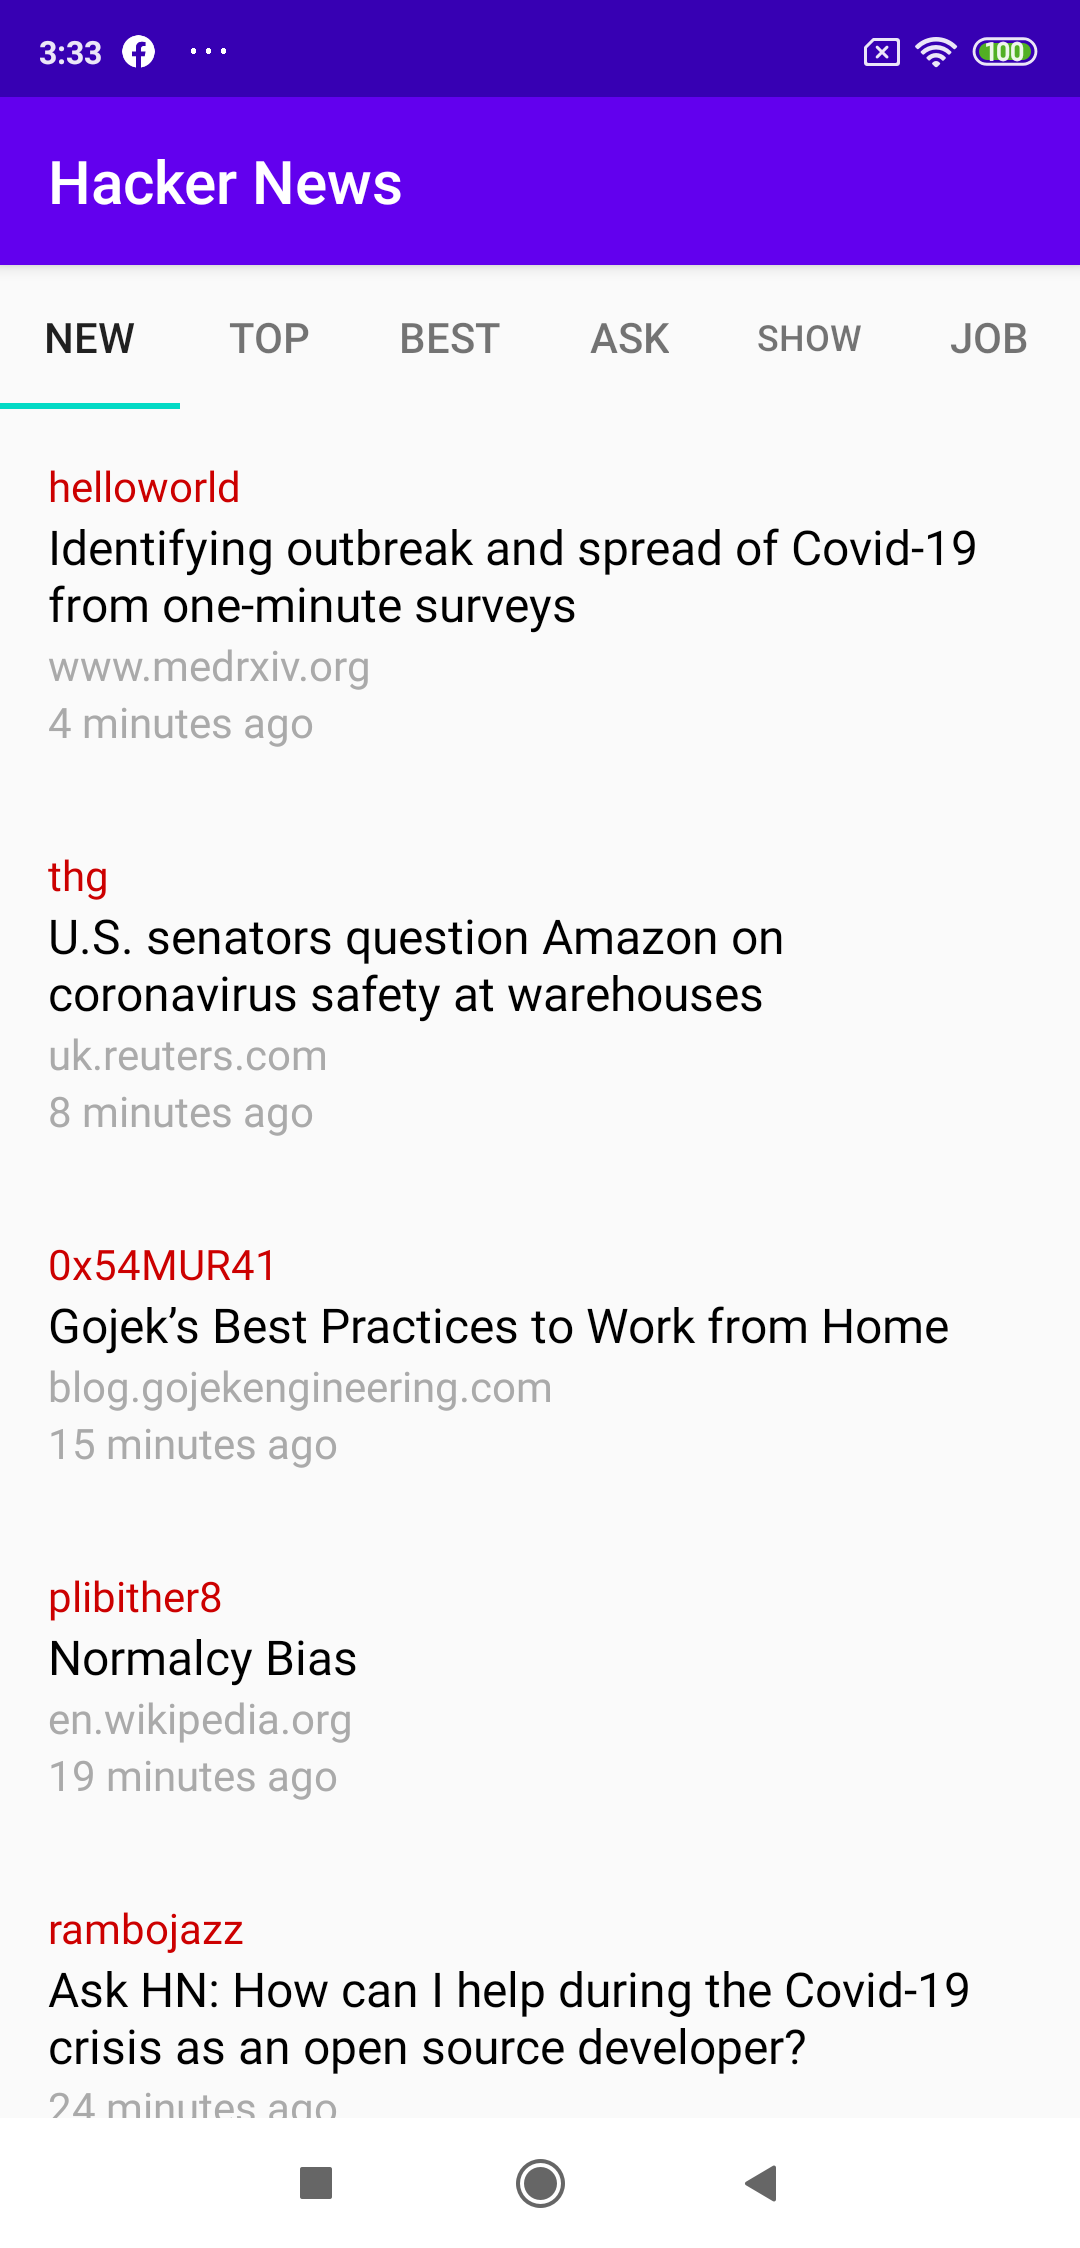
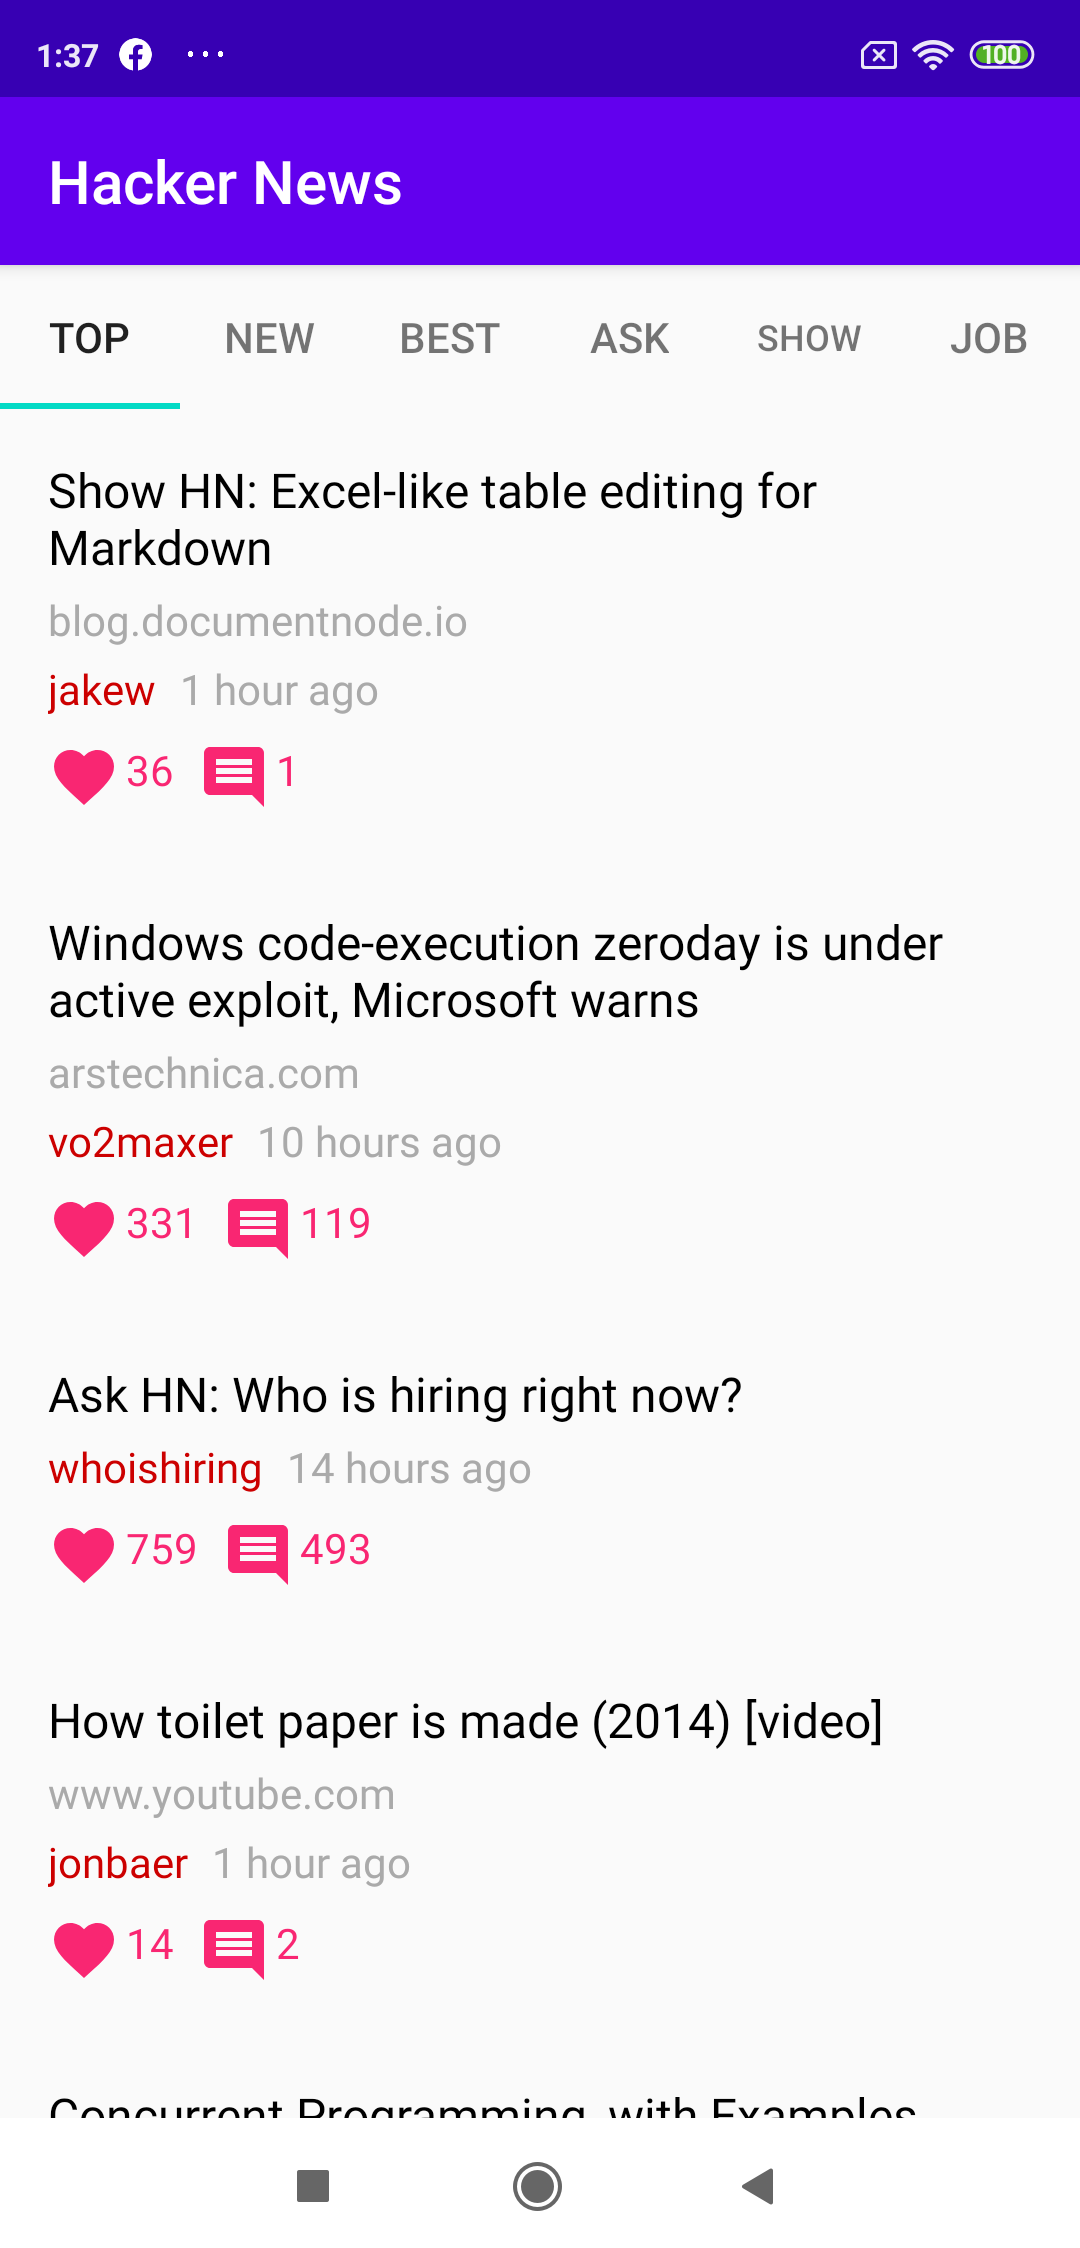
Update UI

diff --git a/presentation/src/main/java/io/github/jenthone/hackernews/ui/story/StoryFragment.kt b/presentation/src/main/java/io/github/jenthone/hackernews/ui/story/StoryFragment.kt
@@ -8,6 +8,7 @@ import android.view.ViewGroup
 import androidx.recyclerview.widget.LinearLayoutManager
 
 import io.github.jenthone.hackernews.R
+import io.github.jenthone.hackernews.data.Const
 import io.github.jenthone.hackernews.domain.entity.StoryType
 import io.github.jenthone.hackernews.domain.helper.AsyncResult
 import io.github.jenthone.hackernews.entity.Item
@@ -99,6 +100,10 @@ class StoryFragment : Fragment() {
 
             override fun onOpenItemUrl(item: Item) {
                 context?.openLink(item.url ?: return)
+            }
+
+            override fun onOpenItemCreator(item: Item) {
+                context?.openLink("${Const.BASE_WEB_URL}user?id=${item.by}")
             }
         })
 

diff --git a/presentation/src/main/java/io/github/jenthone/hackernews/ui/story/StoryAdapter.kt b/presentation/src/main/java/io/github/jenthone/hackernews/ui/story/StoryAdapter.kt
@@ -93,6 +93,18 @@ class StoryViewHolder(override val containerView: View) :
         tvUrl.setOnClickListener {
             listener.onOpenItemUrl(item)
         }
+
+        tvBy.setOnClickListener {
+            listener.onOpenItemCreator(item)
+        }
+
+        val score = item.score ?: 0
+        tvScore.text = "${score}"
+
+        val descendants = item.descendants ?: 0
+
+        tvComment.isVisible = descendants > 0
+        tvComment.text = "$descendants"
     }
 }
 
@@ -116,4 +128,6 @@ interface StoryAdapterListener {
     fun onBindEmptyItem(id: Int)
 
     fun onOpenItemUrl(item: Item)
+
+    fun onOpenItemCreator(item: Item)
 }

diff --git a/data/src/main/java/io/github/jenthone/hackernews/data/Const.kt b/data/src/main/java/io/github/jenthone/hackernews/data/Const.kt
@@ -1,5 +1,7 @@
 package io.github.jenthone.hackernews.data
 
 object Const {
-    const val BASE_URL = " https://hacker-news.firebaseio.com/v0/"
+    const val BASE_URL = "https://hacker-news.firebaseio.com/v0/"
+
+    const val BASE_WEB_URL = "https://news.ycombinator.com/"
 }

diff --git a/domain/src/main/java/io/github/jenthone/hackernews/domain/entity/StoryType.kt b/domain/src/main/java/io/github/jenthone/hackernews/domain/entity/StoryType.kt
@@ -1,8 +1,8 @@
 package io.github.jenthone.hackernews.domain.entity
 
 enum class StoryType {
-    NEW,
     TOP,
+    NEW,
     BEST,
     ASK,
     SHOW,
